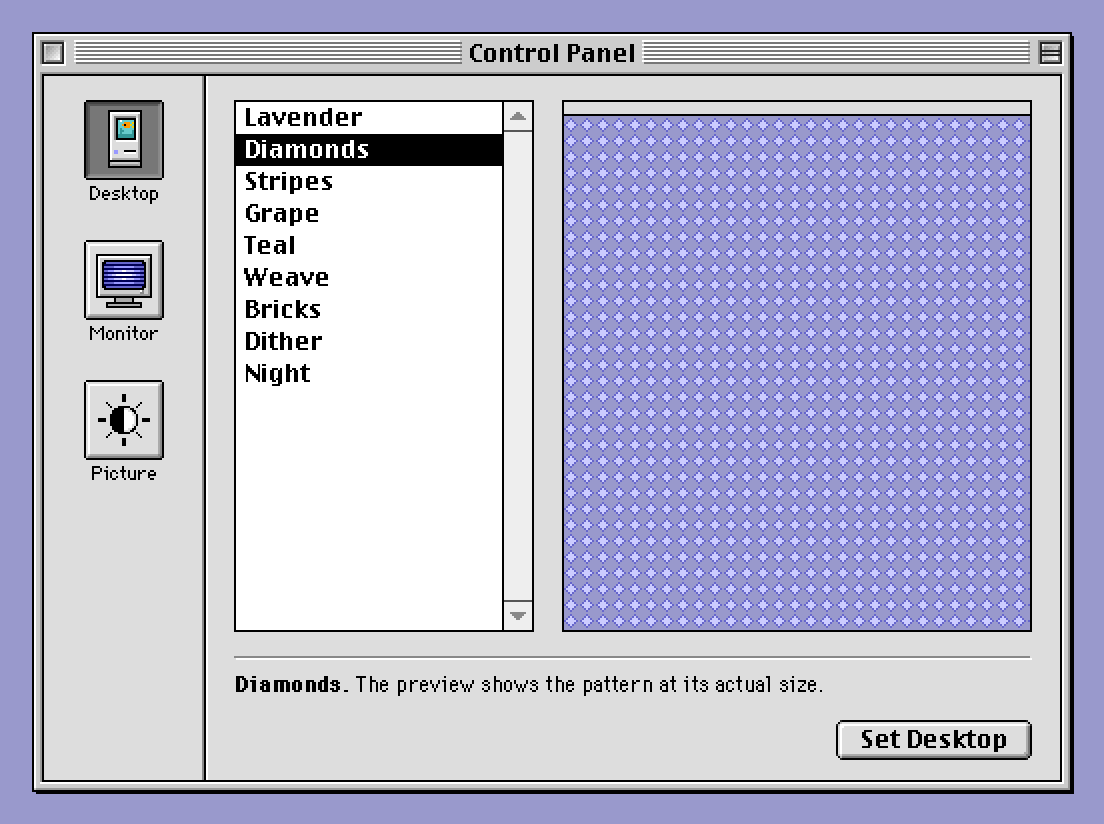
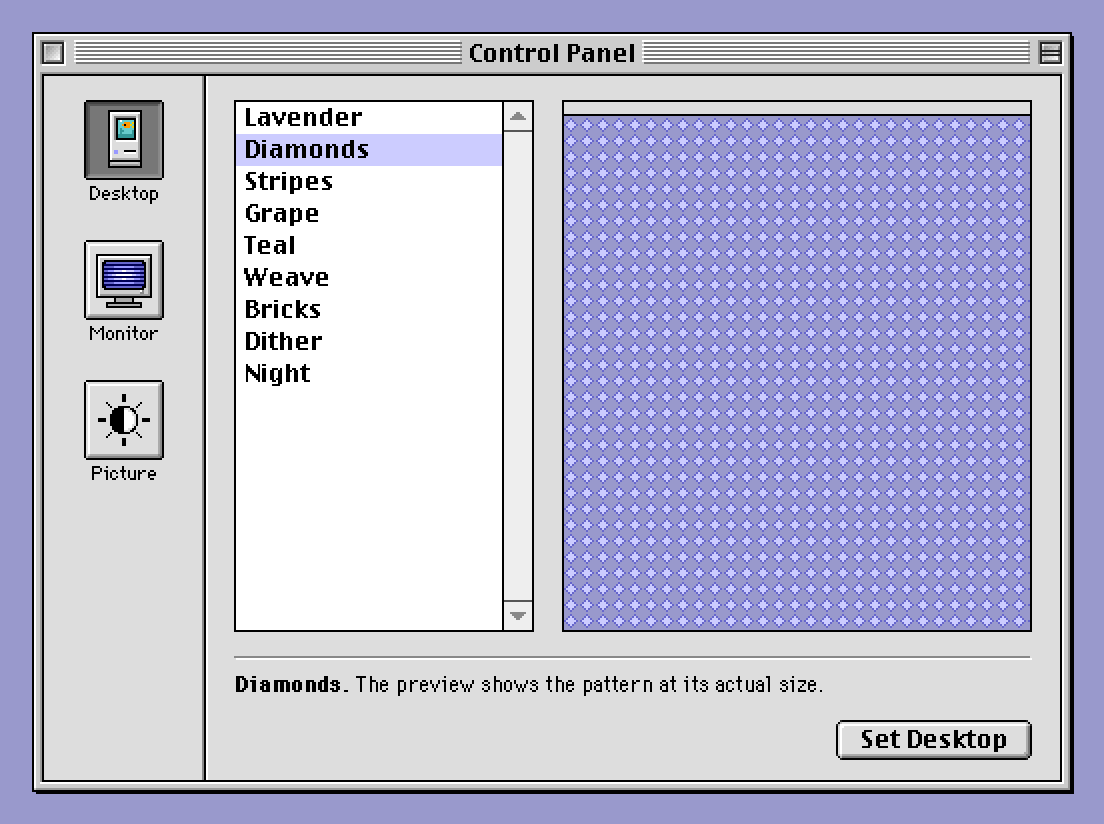
Make the demo's Appearance window set the colors
The Highlight Color and Variation pop-ups now list Mac OS 8.5's
choices and call setAppearance, so the whole demo desktop recolors
live. Other… opens a browser color input, since Osmium has no Color
Picker, and Black & White stays in the highlight list as the way back
to the inverting highlight. The menu bar logo follows the accent; icons
keep their colors. The Appearance and Control Panel screenshots are
re-shot for the Purple default highlight; nothing else in them changed.

Claude-Session: https://claude.ai/code/session_014fhnVpnnDZT2sjDkM4thWd

Changed region(s): [[0.2156, 0.1517, 0.462, 0.2124]]

diff --git a/demo/appearance.ts b/demo/appearance.ts
@@ -1,10 +1,18 @@
 // "Appearance": a tab control laid out like Mac OS 8.5's Appearance
 // control panel, whose tabs osmium.css's are measured from. The tab
 // control fills the window; each pane holds a few settings, a titled
-// pop-up or a checkbox with a Geneva 9 caption under it. The settings
-// are for show: choosing one changes nothing else.
+// pop-up or a checkbox with a Geneva 9 caption under it. Highlight
+// Color and Variation work: they call setAppearance, which recolors
+// every window on the page. The other settings are for show.
+//
+// Mac OS 9.0's pop-ups show a 21 x 12 swatch beside each color name;
+// Osmium's pop-ups have no item icons, so these list names only.
 import {
-  attachBalloon, mountPopup, mountTabs, trackHighlight,
+  HIGHLIGHTS_85, VARIATIONS_85, attachBalloon, getAppearance, mountPopup,
+  mountTabs, setAppearance, trackHighlight,
+} from "../src/index.js";
+import type {
+  Highlight85, HighlightChoice, Popup, Variation85,
 } from "../src/index.js";
 import { checkbox, el } from "./dom.js";
 import type { WindowContent, WindowEnv } from "./windows.js";
@@ -12,6 +20,8 @@ import type { WindowContent, WindowEnv } from "./windows.js";
 type Setting =
   | { kind: "popup"; title: string; items: readonly string[];
       caption: string }
+  | { kind: "highlight"; title: string; caption: string }
+  | { kind: "variation"; title: string; caption: string }
   | { kind: "checkbox"; title: string; on: boolean; caption: string };
 
 interface Tab { title: string; settings: readonly Setting[] }
@@ -20,11 +30,9 @@ const TABS: readonly Tab[] = [
   { title: "Appearance", settings: [
     { kind: "popup", title: "Appearance", items: ["Apple platinum"],
       caption: "for the overall look of menus, icons, windows, and controls" },
-    { kind: "popup", title: "Highlight Color",
-      items: ["Black & White", "Lavender", "Gold", "Rose", "Blue"],
+    { kind: "highlight", title: "Highlight Color",
       caption: "for selected text" },
-    { kind: "popup", title: "Variation",
-      items: ["Lavender", "Blue", "Gold", "Graphite", "Rose"],
+    { kind: "variation", title: "Variation",
       caption: "for menus and controls" },
   ] },
   { title: "Fonts", settings: [
@@ -50,17 +58,91 @@ const ROW_PITCH = 41;
 
 let popupSeq = 0;
 
+// ---- Highlight Color -------------------------------------------------
+// Mac OS 8.5's list ('hlit' 3000), then Other…. Black & White heads it
+// although 8.5's list has none (8.0's does): it is the only highlight
+// that inverts, and the demo keeps a way back to it.
+const BLACK_WHITE = "Black & White";
+const OTHER = "Other…";
+
+/** The menu's items, with a custom color (chosen through Other…) as an
+ * item of its own before Other…, so choosing Other… again reopens the
+ * color input. */
+function highlightItems(custom: string | null): string[] {
+  return [BLACK_WHITE, ...HIGHLIGHTS_85, ...(custom ? [custom] : []), OTHER];
+}
+
+function mountHighlight(row: HTMLElement, pop: HTMLButtonElement,
+                        label: string): void {
+  const current: HighlightChoice = getAppearance().highlight;
+  let custom = typeof current === "object" && "color" in current
+    ? current.color : null;
+  let items = highlightItems(custom);
+  const index = (h: HighlightChoice) =>
+    h === "black-white" ? 0
+      : "color" in h ? items.indexOf(h.color)
+      : Math.max(0, items.indexOf(h.name));
+  // Mac OS opened the Color Picker ("Choose a highlight color:"). Osmium
+  // has no Color Picker, so Other… opens the browser's color input.
+  const picker = el("input", "apr-color");
+  picker.type = "color";
+  picker.tabIndex = -1;
+  picker.setAttribute("aria-hidden", "true");
+  row.append(picker);
+  const popup: Popup = mountPopup(pop, {
+    items, selected: index(current), label,
+    onChange: (i) => {
+      const name = items[i]!;
+      if (name === OTHER) {
+        // Nothing changes until a color is chosen.
+        popup.setSelected(index(getAppearance().highlight));
+        picker.value = getComputedStyle(document.documentElement)
+          .getPropertyValue("--osm-highlight").trim();
+        picker.click();
+        return;
+      }
+      setAppearance({ highlight: name === BLACK_WHITE ? "black-white"
+        : name === custom ? { color: name }
+        : { release: "8.5", name: name as Highlight85 } });
+    },
+  });
+  picker.addEventListener("input", () => {
+    setAppearance({ highlight: { color: picker.value } });
+    custom = picker.value;
+    items = highlightItems(custom);
+    popup.setItems(items, index(getAppearance().highlight));
+  });
+}
+
+// ---- Variation ------------------------------------------------------
+// Mac OS 8.5's 20 variations (Apple platinum 'tvar' 128). Its Black &
+// White variation is left out: Osmium doesn't offer it (appearance.ts).
+function mountVariation(pop: HTMLButtonElement, label: string): void {
+  const accent = getAppearance().accent;
+  const lavender = VARIATIONS_85.indexOf("Lavender");
+  const selected = "name" in accent
+    ? VARIATIONS_85.indexOf(accent.name as Variation85)
+    : -1;
+  mountPopup(pop, {
+    items: VARIATIONS_85, selected: selected < 0 ? lavender : selected, label,
+    onChange: (i) =>
+      setAppearance({ accent: { release: "8.5", name: VARIATIONS_85[i]! } }),
+  });
+}
+
 function settingRow(s: Setting, i: number): HTMLElement {
   const row = el("div", "apr-row");
   row.style.top = `${ROW_TOP + i * ROW_PITCH}px`;
-  if (s.kind === "popup") {
+  if (s.kind !== "checkbox") {
     const title = el("label", "osm-popup-title apr-title", `${s.title}:`);
     const pop = el("button", "osm-popup apr-pop");
     pop.type = "button";
     pop.id = `apr-pop-${++popupSeq}`;
     title.htmlFor = pop.id;
     row.append(title, pop);
-    mountPopup(pop, {
+    if (s.kind === "highlight") mountHighlight(row, pop, s.title);
+    else if (s.kind === "variation") mountVariation(pop, s.title);
+    else mountPopup(pop, {
       items: s.items, selected: 0, label: s.title, onChange: () => {},
     });
   } else {

diff --git a/demo/icons.ts b/demo/icons.ts
@@ -2,8 +2,9 @@
 // --osm-sprite-<name> custom properties: the menu bar's logo, desktop
 // and About icons (32 x 32), Finder list icons (16 x 16) and control
 // panel pane icons (32 x 32). Grids use the
-// kit's palette keys (a hex digit is a gray level, n/l/m/p/q the
-// lavender ramp, '.' is transparent) plus the colors in PALETTE.
+// kit's palette keys (a hex digit is a gray level, w/q/p/m/l/n the
+// Lavender accent ramp, '.' is transparent) plus the colors in PALETTE.
+// Icons keep Lavender; the logo follows the accent setAppearance sets.
 import { registerSprites } from "../src/index.js";
 
 const PALETTE = {
@@ -491,5 +492,7 @@ let registered = false;
 export function registerDemoSprites(): void {
   if (registered) return;
   registered = true;
-  registerSprites(SPRITES, PALETTE);
+  const { logo, ...icons } = SPRITES;
+  registerSprites(icons, PALETTE);
+  registerSprites({ logo }, PALETTE, { accent: "follow" });
 }

diff --git a/demo/demo.css b/demo/demo.css
@@ -45,7 +45,9 @@ html.desk { height: 100%; background: #9999cc; }
 }
 .dsk-selected .dsk-img { filter: brightness(0.5); }
 .dsk-selected .dsk-label { background: #000; color: #fff; }
-.osm-kbd .dsk-icon:focus-visible .dsk-label { outline: 2px solid #6666cc; }
+.osm-kbd .dsk-icon:focus-visible .dsk-label {
+  outline: 2px solid var(--osm-focus-ring);
+}
 
 /* ---- Keyboard-style slider units (dom.ts) ------------------------- */
 /* Caption above, ticks under the track, end captions below. */
@@ -268,3 +270,9 @@ html.desk { height: 100%; background: #9999cc; }
 .alr-kinds { left: 12px; }
 .alr-variations { left: 220px; }
 .alr-status { left: 0; right: 0; bottom: 0; }
+/* The Highlight Color's Other… opens this color input, out of sight
+   beside its pop-up. */
+.apr-row > .apr-color {
+  left: 121px; top: 0; width: 1px; height: 1px;
+  padding: 0; border: 0; opacity: 0; pointer-events: none;
+}
